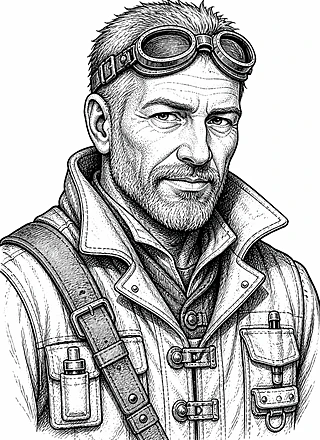
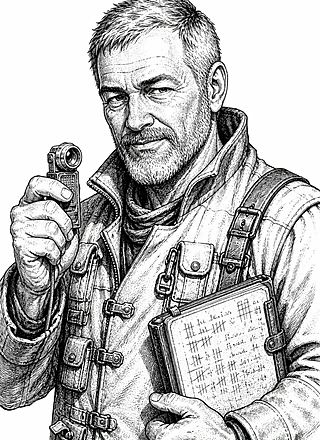
fix(cantina): Merchant-Portrait — Goggles gegen Loupe+Ledger getauscht
Owner-Feedback: die Trader-Goggles machten den Reisenden Händler optisch zu
ähnlich zum Baumeister-Berater (ebenfalls Kopf-Accessoire). Ersetzt durch ein
Hand-Prop-Paar, das stärker auf Corvans "prices everything out loud"-Trait
einzahlt: Bewertungs-Loupe in einer Hand, Strichlisten-Ledger unterm Arm.
Charakterblatt-Appearance entsprechend angepasst.

diff --git a/docs/characters/merchant.md b/docs/characters/merchant.md
@@ -22,7 +22,7 @@ Corvan has spent thirty years hauling cargo between colonies too small and too p
 Fast, transactional, faintly amused — he talks like a man who has made this pitch a thousand times and still enjoys it, but he won't waste breath on a deal that isn't going anywhere.
 
 ## Appearance
-A weathered man in his mid-fifties with a short grey beard and a face read like a shipping manifest — sun and static damage in equal measure. He wears a heavy, well-worn travel coat lined with dozens of small pockets, a satchel strap slung across one shoulder, and battered trader's goggles pushed up onto his forehead. His eyes are calculating but not unkind — the look of someone always doing the math, but not unwilling to let you win once in a while.
+A weathered man in his mid-fifties with a short grey beard and a face read like a shipping manifest — sun and static damage in equal measure. He wears a heavy, well-worn travel coat lined with dozens of small pockets, a satchel strap slung across one shoulder. A worn ledger covered in handwritten tally marks is always tucked under one arm, and he holds a small handheld appraisal loupe up in the other, as if mid-transaction. His eyes are calculating but not unkind — the look of someone always doing the math, but not unwilling to let you win once in a while.
 
 ## Cantina Placement
 - **Panels:** 0

diff --git a/CHANGELOG.md b/CHANGELOG.md
@@ -1,5 +1,9 @@
 # Changelog
 
+## 2026-07-30 (Fortsetzung 2)
+
+Merchant-Portrait überarbeitet: Trader-Goggles entfernt (zu ähnlich zum Baumeister-Berater), stattdessen Bewertungs-Loupe in einer Hand + Strichlisten-Ledger unterm Arm — passt besser zu Corvans "prices everything out loud"-Quirk. Charakterblatt (`docs/characters/merchant.md`) entsprechend angepasst.
+
 ## 2026-07-30 (Fortsetzung)
 
 Cantina: Reisender-Händler-Hotspot zeigte bisher nur ein generisches Shop-Icon statt eines Portraits wie die übrigen NPCs. Neues Merchant-Portrait erzeugt (gleiche Bildvarianten-Pipeline wie oben), Hotspot zeigt jetzt `has-portrait` wie die Gäste-Hotspots plus ein kleines Ausrufezeichen-Badge oben rechts, da der Händler nur zeitlich begrenzt verfügbar ist.
